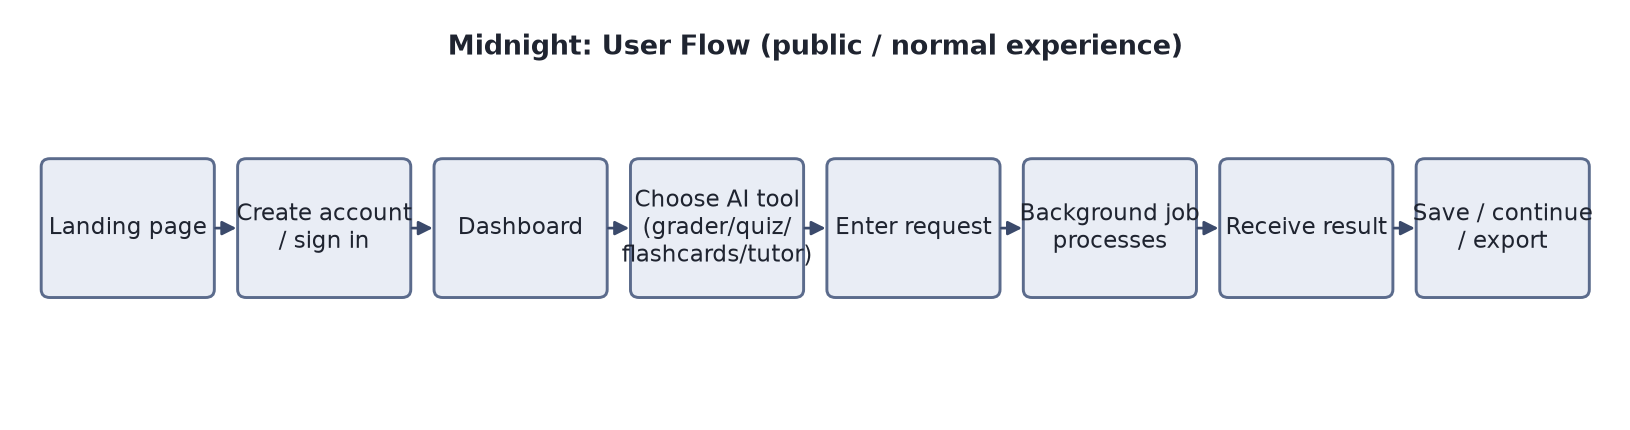
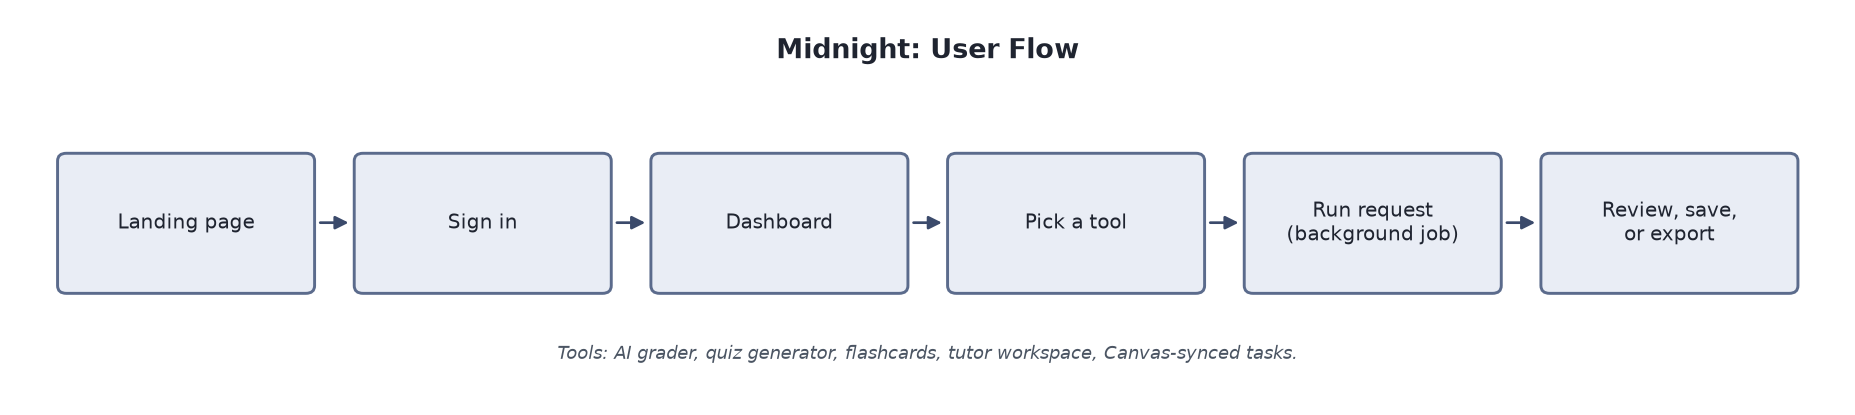
Review fixes: split verified vs reported results, correct contributor count
Also: alpha->beta consistency, provider vs model-family phrasing, simpler
architecture flow text, regenerated user-flow and timeline diagrams with
proper padding and only verifiable dates, founder-reported clarifier.

diff --git a/ARCHITECTURE.md b/ARCHITECTURE.md
@@ -7,33 +7,21 @@
 ## High-level system
 
 ```
-                 ┌─────────────────────────────────────────────────────────┐
-   Student  ───▶ │  Frontend (Next.js 15 / React 19 web app)               │
-                 │  UI system: Radix UI + Tailwind CSS, TanStack Query     │
-                 └───────────────┬─────────────────────────────────────────┘
-                                 │
-                                 ▼
-                 ┌─────────────────────────────────────────────────────────┐
-                 │  Application backend (server routes / API layer)        │
-                 └───────┬───────────────┬───────────────┬─────────────────┘
-                         │               │               │
-             ┌───────────▼──┐   ┌────────▼────────┐  ┌───▼──────────────────┐
-             │ Auth          │   │ Database        │  │ AI routing layer     │
-             │ (WorkOS)      │   │ (PostgreSQL /   │  │ (Vercel AI SDK to    │
-             │               │   │  Supabase)      │  │  multiple providers) │
-             └───────────────┘   └─────────────────┘  └───┬──────────────────┘
-                                                          │
-                                          ┌───────────────▼───────────────┐
-                                          │ External model APIs           │
-                                          │ (multiple LLM providers)      │
-                                          └───────────────────────────────┘
-                 ┌─────────────────────────────────────────────────────────┐
-                 │ Background jobs (long-running AI tasks) + notifications  │
-                 │ Monitoring / error tracking (Sentry)                    │
-                 └─────────────────────────────────────────────────────────┘
+Student
+  -> Frontend (Next.js / React, Radix UI + Tailwind)
+      -> Application backend (server routes / API layer)
+          -> Authentication (WorkOS)
+          -> Database (PostgreSQL / Supabase)
+          -> Cache and rate limiting (Redis / Upstash)
+          -> AI routing layer (Vercel AI SDK)
+              -> External model APIs (OpenAI, Groq, Cerebras, Fireworks AI)
+
+Cross-cutting: background jobs (Trigger.dev) with progress notifications,
+monitoring (Sentry), product analytics (PostHog).
+Delivery: Turborepo monorepo, GitHub Actions, Vercel, staging then production.
 ```
 
-A rendered version is in [assets/architecture-diagram.png](assets/architecture-diagram.png).
+The rendered diagram is in [assets/architecture-diagram.png](assets/architecture-diagram.png).
 
 ## Components (generalized)
 - **Frontend**: Next.js 15 / React 19 single web application; component library built on Radix

diff --git a/README.md b/README.md
@@ -2,7 +2,7 @@
 
 Midnight is an education-technology platform focused on helping students use AI-assisted
 academic tools more effectively. This repository documents the product-development process,
-selected technical decisions, and lessons from rebuilding an earlier alpha product, while
+selected technical decisions, and lessons from rebuilding an earlier beta product, while
 keeping the production source code private.
 
 > This is a **documentation-only case study**. It contains no production source code, no user
@@ -22,7 +22,7 @@ from an earlier product called **the beta**. Approximately **400 current users**
 Led product planning, user research, development priorities, testing, and marketing strategy, in
 close coordination with a co-founder, and served as lead engineer and the top code contributor.
 Verified from the private repository: **1,684 of 3,607 commits (~47%)**, the single largest share
-among ~13+ contributors. Category-by-category ownership is in
+among 10+ contributors. Category-by-category ownership is in
 [CASE_STUDY.md → My responsibilities](CASE_STUDY.md#7-my-responsibilities).
 
 ## Main problem
@@ -33,24 +33,28 @@ create and organize academic work while background jobs keep long tasks moving.
 ## Key contributions
 - Led the rebuild and relaunch from the earlier the beta product to the current Midnight platform,
   applying lessons to product design, UX, team structure, and technical infrastructure.
-- Led product planning, user research, development priorities, testing, and marketing strategy.
+- Owned the product cycle end to end: planning, user research, prioritization, testing, and marketing.
 - As lead engineer, built across the codebase (AI-assisted grading, quiz/flashcard generation with
   spaced repetition, tutor workspace, Canvas LMS integration), top contributor at ~47% of commits.
 - Worked on the multi-provider AI routing layer serving model requests across providers.
 
-## Verified results
-- **Top contributor: 1,684 / 3,607 commits (~47%)** (source: private git history).
+## Results
+
+**Verified (from the private git history):**
+- **Top contributor: 1,684 / 3,607 commits (~47%)**, the largest share among 10+ contributors.
 - Production platform live at **www.midapp.me** with a multi-tool AI workspace.
-- **Predecessor (the beta):** ~1,000 live beta users, 10M+ social-media views, ~25 contributors
-  (founder-reported). the beta and Midnight numbers are kept **separate and precisely labeled** in
+
+**Reported (founder-reported, not independently verified):**
+- Predecessor (the beta): ~1,000 live beta users, 10M+ social-media views, ~25 contributors.
+- the beta and Midnight numbers are kept **separate and precisely labeled** in
   [METRICS.md](METRICS.md), never combined.
 
 ## Technology overview
 TypeScript monorepo (Turborepo + Yarn) on **Next.js / React**, **WorkOS** auth, **PostgreSQL
 (Supabase)**, **Redis (Upstash)**, **Redux Toolkit + React Query**, **Tailwind CSS + Radix UI**,
 **Trigger.dev** background jobs, **PostHog + Sentry**, tested with **Playwright + Vitest**, and
-deployed on **Vercel** via **GitHub Actions**. AI: **multi-provider LLM integration** (OpenAI,
-Groq, Cerebras, Fireworks AI, Llama, GPT-OSS, GLM families) via the Vercel AI SDK. A React Native
+deployed on **Vercel** via **GitHub Actions**. AI: **multi-provider LLM integration** via the Vercel AI
+SDK: OpenAI, Groq, Cerebras, and Fireworks AI, serving Llama, GPT-OSS, and GLM model families. A React Native
 (Expo) mobile app is part of the product. Full (sanitized) detail in [ARCHITECTURE.md](ARCHITECTURE.md).
 
 ## Links

diff --git a/CASE_STUDY.md b/CASE_STUDY.md
@@ -69,7 +69,7 @@ commits); the product/research/testing/marketing leadership is self-reported.
 | Launch planning | **Co-led** (with co-founder) | Self-reported |
 
 > Work was done in **close coordination with a co-founder**. This case study does not claim I
-> personally built every part of the platform: Midnight is a team effort (~13+ contributors in the
+> personally built every part of the platform: Midnight is a team effort (10+ contributors in the
 > current repo; ~25 during the the beta stage). My largest independently verifiable contribution is
 > engineering (top contributor, ~47% of commits).
 
@@ -100,7 +100,7 @@ across model providers and keeps latency and cost manageable. No specific cost-r
 percentage is claimed here, see [METRICS.md](METRICS.md).
 
 ## 12. Team and collaboration
-Midnight is built by a team (~13+ contributors in the current repository; ~25 during the the beta
+Midnight is built by a team (10+ contributors in the current repository; ~25 during the the beta
 stage). I was the top code contributor and worked in **close coordination with a co-founder** on
 product and leadership, while coordinating other engineers and contributors. Individual teammates
 are referenced by function rather than by name.
@@ -133,4 +133,3 @@ performance work, and growth of the current user base. Specific roadmap details 
 ## 18. Links and media
 - Live product: [www.midapp.me](https://www.midapp.me)
 - Architecture: [ARCHITECTURE.md](ARCHITECTURE.md) · Metrics: [METRICS.md](METRICS.md) · Privacy: [PRIVACY.md](PRIVACY.md)
-- Screenshots: see [assets/product-screenshots/](assets/product-screenshots/)

diff --git a/METRICS.md b/METRICS.md
@@ -9,7 +9,10 @@
 | Metric | Definition | Value | Period | Source | Independently verified |
 |--------|-----------|-------|--------|--------|------------------------|
 | Code contribution (mine) | Share of total commits authored by me in the current repo | **1,684 / 3,607 commits (~47%)** | repo start → Jul 2026 | Private git history (`git shortlog`) | ✅ Yes (from git) |
-| Contributors (current repo) | Distinct commit authors in the current repo | **~13+** | repo start → Jul 2026 | Private git history | ✅ Yes (from git) |
+| Contributors (current repo) | Distinct people with commits (26 raw git identities deduplicated, bots excluded) | **10+** | repo start → Jul 2026 | Private git history | ✅ Yes (from git) |
+
+"Founder-reported" and "self-reported" both mean the figure comes from the author (a founder of
+the product) rather than from an independently auditable source.
 
 ## Historical: the beta (earlier product)
 | Metric | Definition | Value | Source | Independently verified |